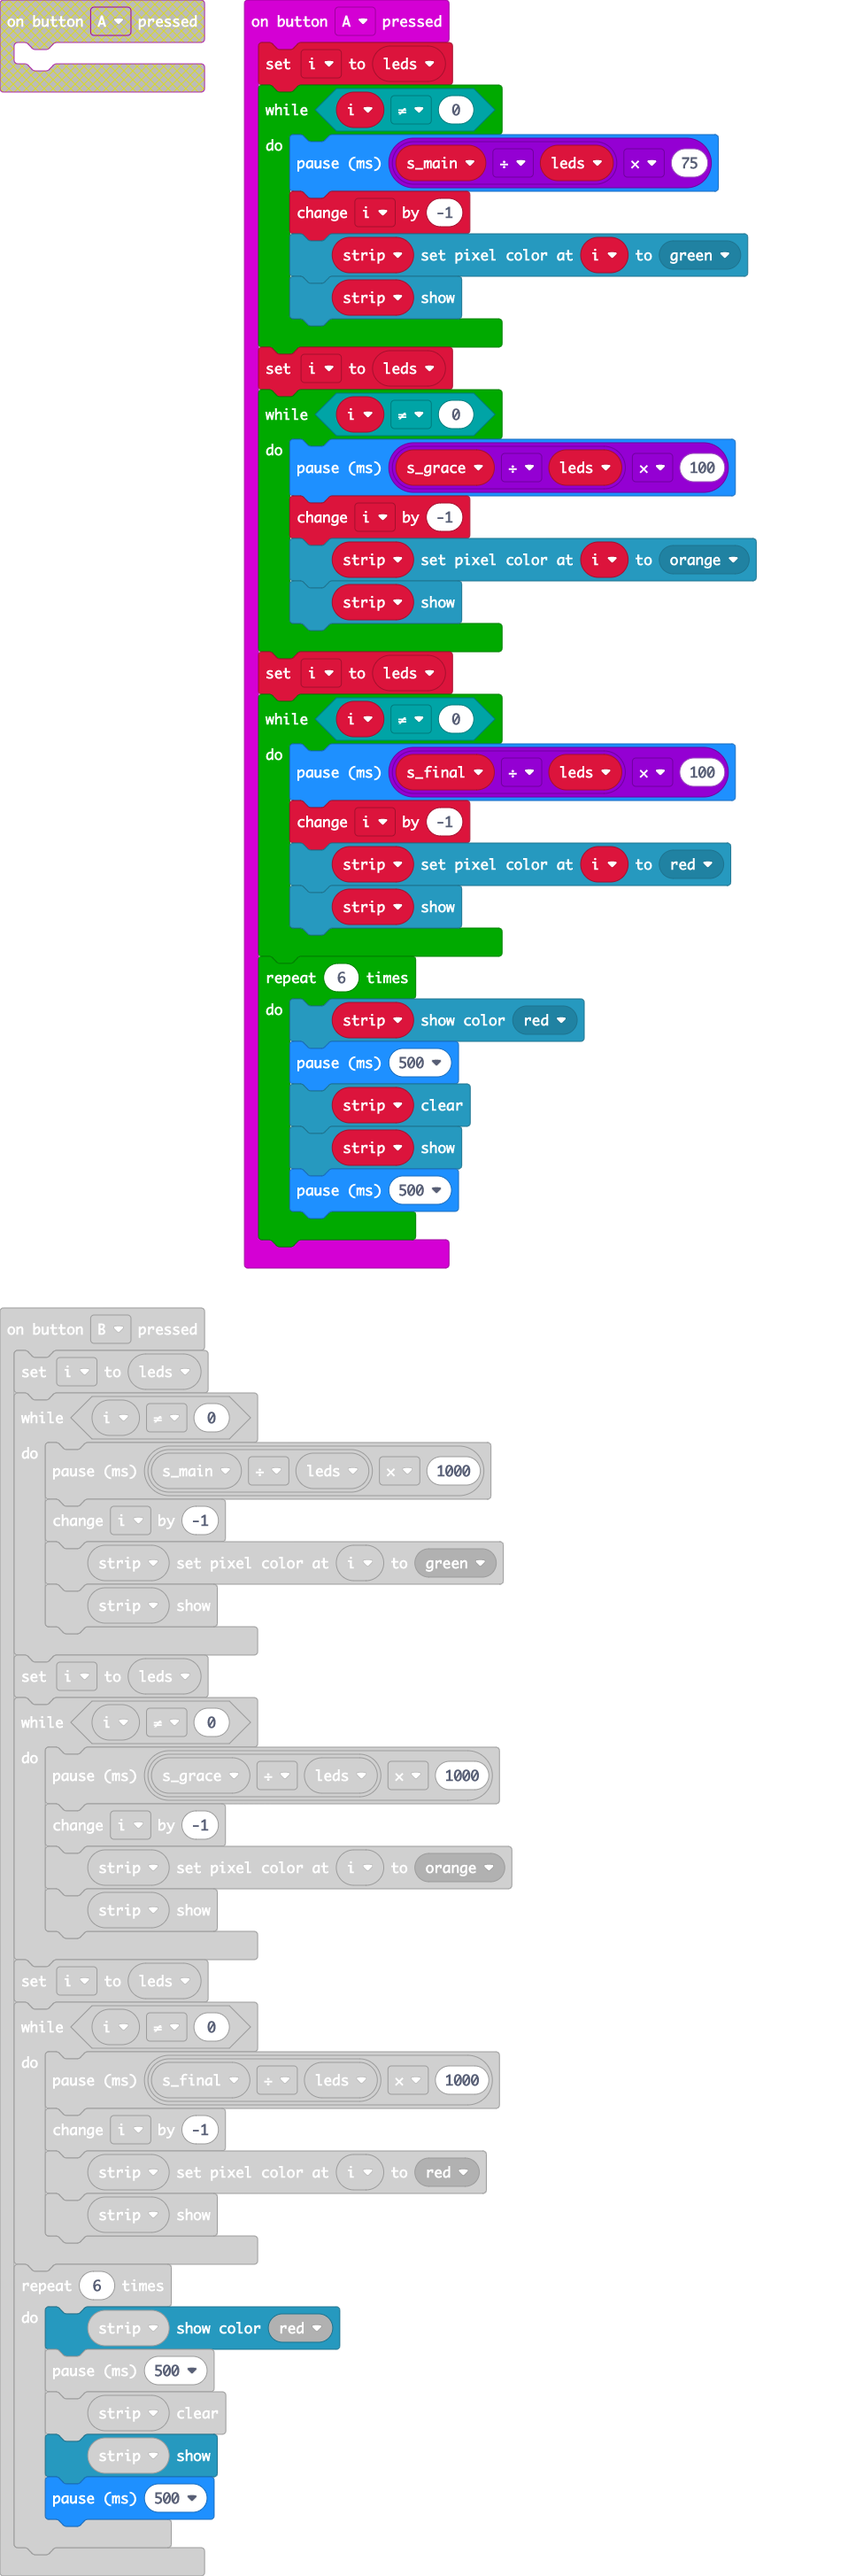
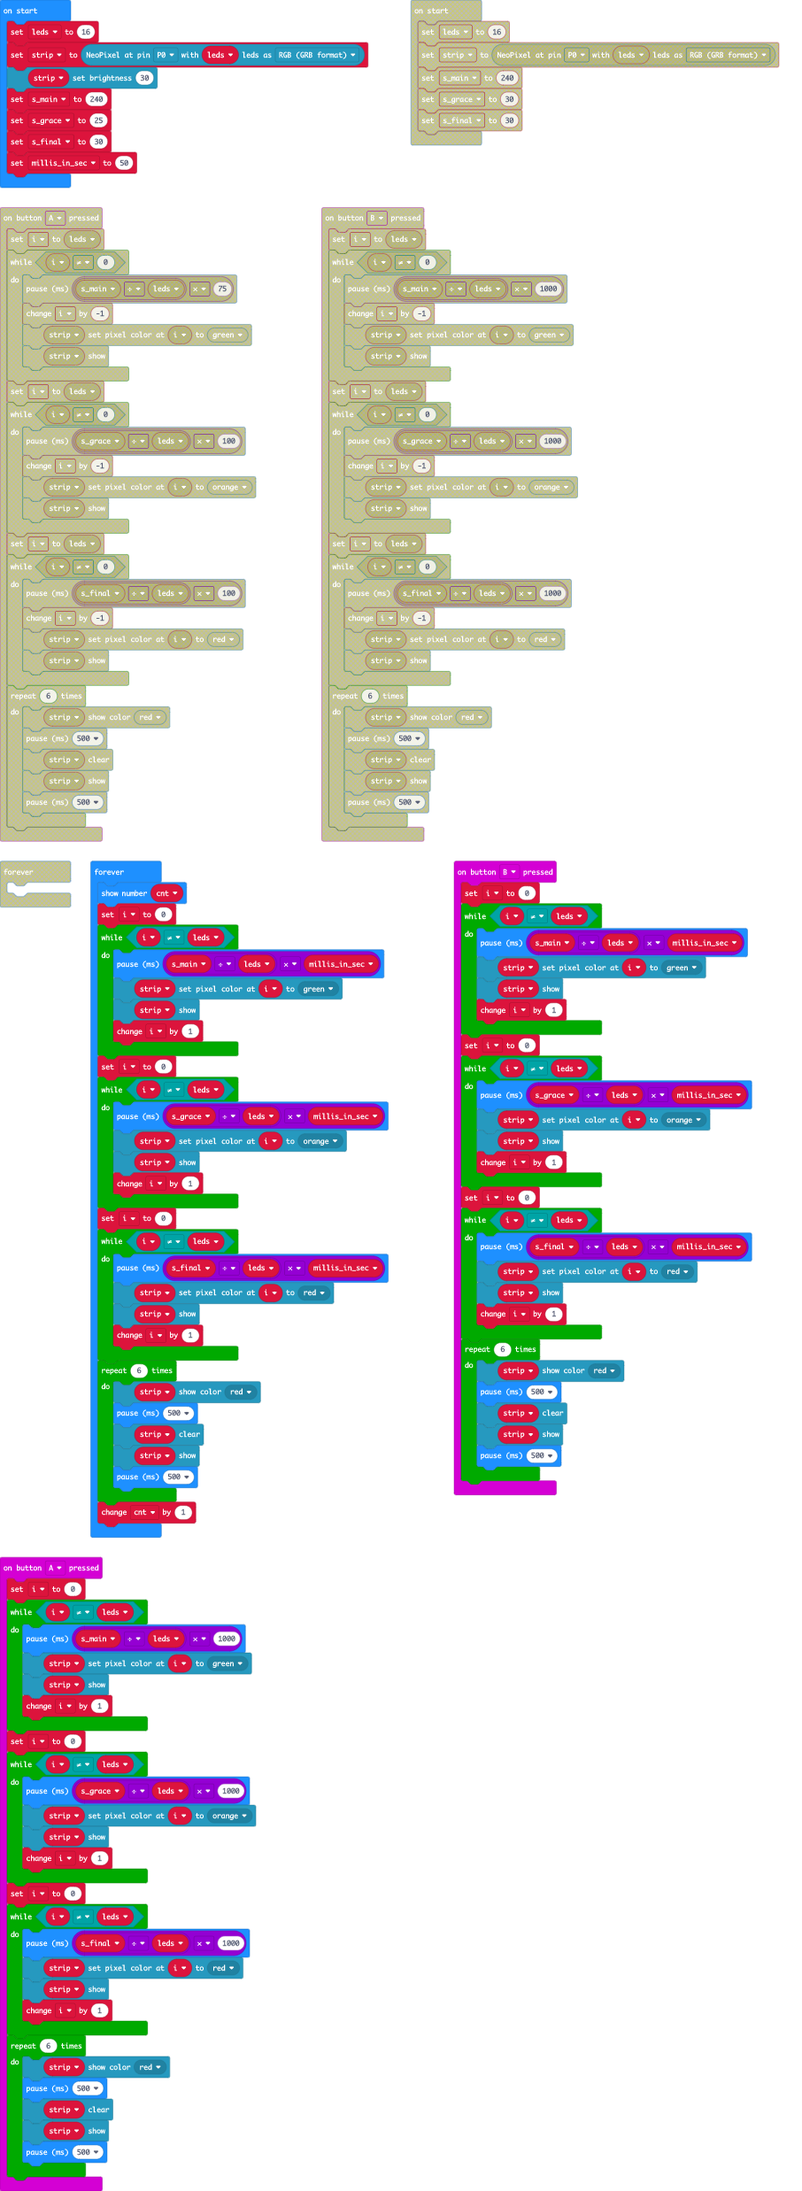
added millis in seconds for demo/ enabled auto for debugging

diff --git a/main.ts b/main.ts
@@ -1,24 +1,24 @@
 input.onButtonPressed(Button.A, function () {
-    i = leds
-    while (i != 0) {
-        basic.pause(s_main / leds * 75)
-        i += -1
+    i = 0
+    while (i != leds) {
+        basic.pause(s_main / leds * 1000)
         strip.setPixelColor(i, neopixel.colors(NeoPixelColors.Green))
         strip.show()
+        i += 1
     }
-    i = leds
-    while (i != 0) {
-        basic.pause(s_grace / leds * 100)
-        i += -1
+    i = 0
+    while (i != leds) {
+        basic.pause(s_grace / leds * 1000)
         strip.setPixelColor(i, neopixel.colors(NeoPixelColors.Orange))
         strip.show()
+        i += 1
     }
-    i = leds
-    while (i != 0) {
-        basic.pause(s_final / leds * 100)
-        i += -1
+    i = 0
+    while (i != leds) {
+        basic.pause(s_final / leds * 1000)
         strip.setPixelColor(i, neopixel.colors(NeoPixelColors.Red))
         strip.show()
+        i += 1
     }
     for (let index = 0; index < 6; index++) {
         strip.showColor(neopixel.colors(NeoPixelColors.Red))
@@ -29,26 +29,26 @@ input.onButtonPressed(Button.A, function () {
     }
 })
 input.onButtonPressed(Button.B, function () {
-    i = leds
-    while (i != 0) {
-        basic.pause(s_main / leds * 1000)
-        i += -1
+    i = 0
+    while (i != leds) {
+        basic.pause(s_main / leds * millis_in_sec)
         strip.setPixelColor(i, neopixel.colors(NeoPixelColors.Green))
         strip.show()
+        i += 1
     }
-    i = leds
-    while (i != 0) {
-        basic.pause(s_grace / leds * 1000)
-        i += -1
+    i = 0
+    while (i != leds) {
+        basic.pause(s_grace / leds * millis_in_sec)
         strip.setPixelColor(i, neopixel.colors(NeoPixelColors.Orange))
         strip.show()
+        i += 1
     }
-    i = leds
-    while (i != 0) {
-        basic.pause(s_final / leds * 1000)
-        i += -1
+    i = 0
+    while (i != leds) {
+        basic.pause(s_final / leds * millis_in_sec)
         strip.setPixelColor(i, neopixel.colors(NeoPixelColors.Red))
         strip.show()
+        i += 1
     }
     for (let index = 0; index < 6; index++) {
         strip.showColor(neopixel.colors(NeoPixelColors.Red))
@@ -58,7 +58,9 @@ input.onButtonPressed(Button.B, function () {
         basic.pause(500)
     }
 })
+let cnt = 0
 let i = 0
+let millis_in_sec = 0
 let s_final = 0
 let s_grace = 0
 let s_main = 0
@@ -66,9 +68,40 @@ let strip: neopixel.Strip = null
 let leds = 0
 leds = 16
 strip = neopixel.create(DigitalPin.P0, leds, NeoPixelMode.RGB)
+strip.setBrightness(30)
 s_main = 240
-s_grace = 30
+s_grace = 25
 s_final = 30
+millis_in_sec = 50
 basic.forever(function () {
-	
+    basic.showNumber(cnt)
+    i = 0
+    while (i != leds) {
+        basic.pause(s_main / leds * millis_in_sec)
+        strip.setPixelColor(i, neopixel.colors(NeoPixelColors.Green))
+        strip.show()
+        i += 1
+    }
+    i = 0
+    while (i != leds) {
+        basic.pause(s_grace / leds * millis_in_sec)
+        strip.setPixelColor(i, neopixel.colors(NeoPixelColors.Orange))
+        strip.show()
+        i += 1
+    }
+    i = 0
+    while (i != leds) {
+        basic.pause(s_final / leds * millis_in_sec)
+        strip.setPixelColor(i, neopixel.colors(NeoPixelColors.Red))
+        strip.show()
+        i += 1
+    }
+    for (let index = 0; index < 6; index++) {
+        strip.showColor(neopixel.colors(NeoPixelColors.Red))
+        basic.pause(500)
+        strip.clear()
+        strip.show()
+        basic.pause(500)
+    }
+    cnt += 1
 })
